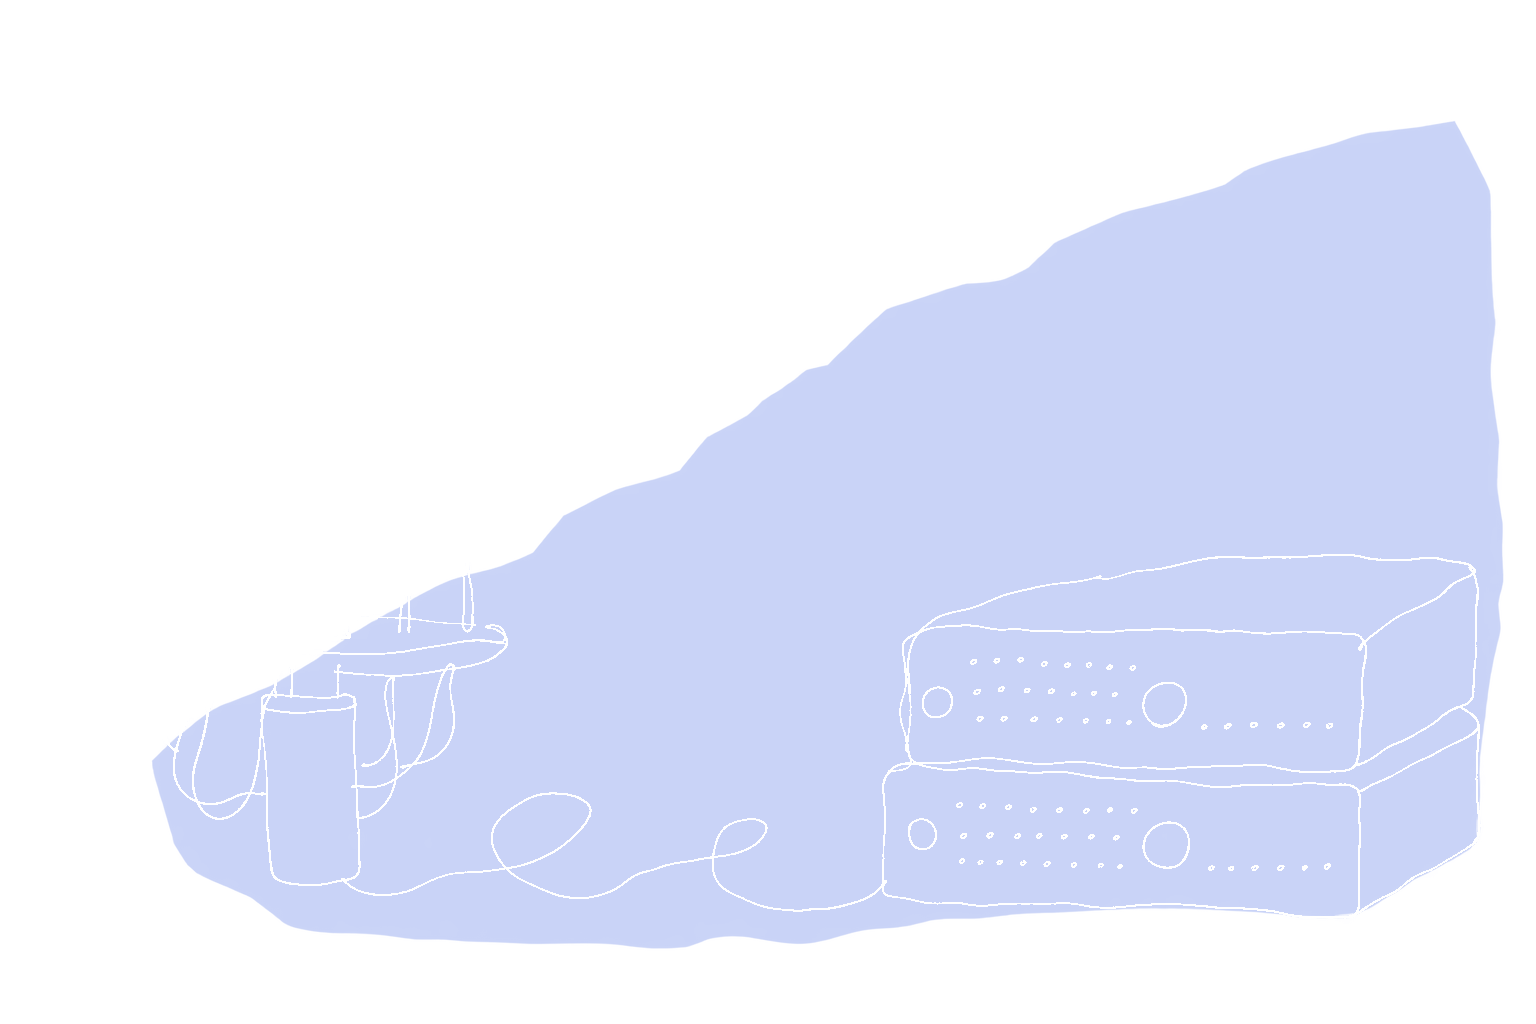
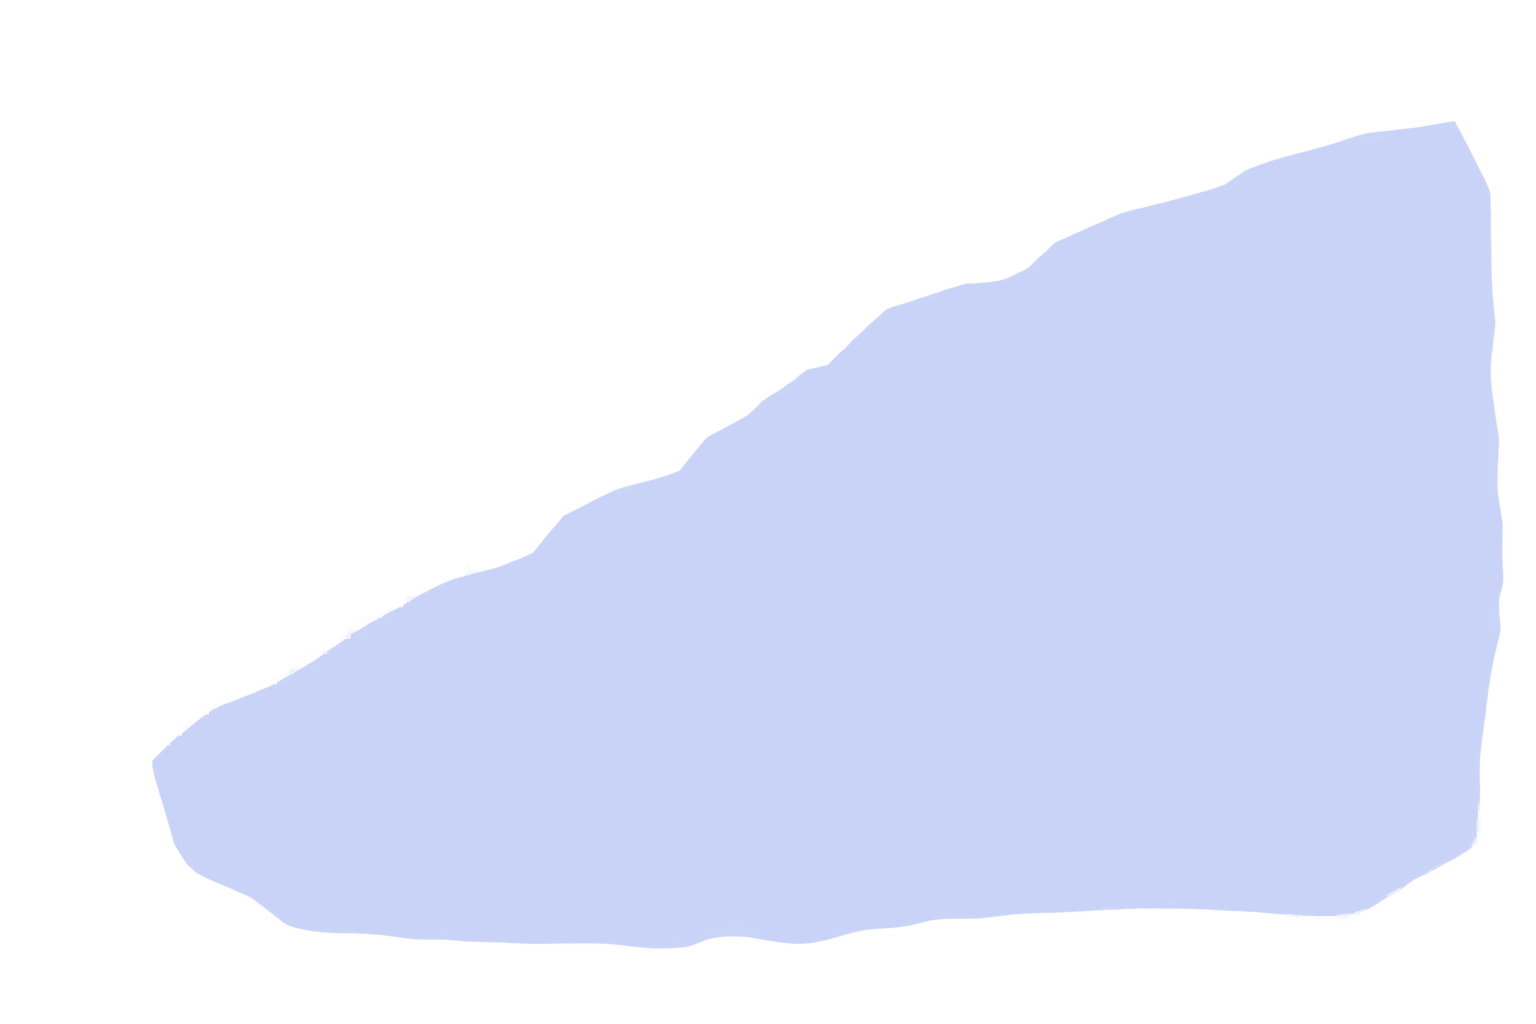
fix(other-half): final read fixes
- section 9: the network stays behind correlated matching except at the lowest noise level (it does not 'never catch' it)
- the lookup table: its runs come from other seeds than the test runs, and unseen or undecided patterns fall back to plain matching (about 0.15% of test runs at 0.5%), as the code and result files record
- 'What we could not show': only the network was trained and tested on one kind of value; the matching check covers both
- How this was made: the reviews as they were
- the hero's colour field: the pen line's knock-outs closed, so no white ghost of the drawing appears as the layers drift (art/SOURCES.md)
- learning: the rotated axis title clear of its tick labels; suppression: a typographic apostrophe; Λ = with non-breaking spaces; status date 23 November; OWN-ENUM dated 23 November

diff --git a/articles/other-half/figures/learning.js b/articles/other-half/figures/learning.js
@@ -210,7 +210,7 @@ function build(el, ctx) {
   if (!tall) {
     // rotated axis title, centred on the plate, its letters 10 units clear
     // of the drawing's left edge so that no frame crops it
-    const rot = g(tg, { transform: `translate(21 ${R.y + R.h / 2}) rotate(-90)`, 'data-audit': 'skip' });
+    const rot = g(tg, { transform: `translate(11 ${R.y + R.h / 2}) rotate(-90)`, 'data-audit': 'skip' });
     text(rot, 0, 0, 'share of runs in which the decoder was wrong', { family: 'sans', size: 12, fill: C.muted, anchor: 'middle' });
   }
   st.fade(fr, 0, 0.12, [1.14, 1.2]).fade(fr5, 1.18, 1.26).fade(tg, 0, 0.12);

diff --git a/articles/other-half/text.md b/articles/other-half/text.md
@@ -3,7 +3,7 @@ title: The other half of a quantum computer
 deck: The same recorded data from one of Google's quantum chips gave two different results, depending on which program read it. We asked what that program has to do, why a neural network can do it better, and what that costs. In our own small runs, it didn't always.
 author: Alexander Rudaev and group
 context: Quantum Computing seminar · TH Deggendorf · winter semester 2026/27
-status: Draft for review, 16 November 2026
+status: Draft for review, 23 November 2026
 accent: other-half
 hero: hero
 summary: The program that reads a quantum chip's errors decides whether the computer works: what it does, why a neural network can do it better, and the cost.
@@ -134,7 +134,7 @@ Google first showed, in 2023, a grid of distance 5 that beat distance 3, but onl
 
 The factor by which the error shrinks per step is written **Λ** (lambda), and it decides how big a useful machine has to be. With Λ near 2, halving the error once more means going from distance 7 to distance 9: from 97 qubits to 161. {{GQA-2024 OWN-ARITH}} That one halving costs 64 more qubits.
 
-Google read the same recorded data with two decoders. Its best matching decoder already links the two kinds of check in a limited way – the idea behind the correlated matching we use in section 9. It learns no rules of its own, though its error weights were tuned on the chip's data. It gave Λ = 2.04, and a neural network gave Λ = 2.14. At distance 7 the matching decoder's logical error rate was 171 per 100,000 rounds and the network's 143, about one in six fewer. {{GQA-2024}} Same chip, same data; only the reader changed.
+Google read the same recorded data with two decoders. Its best matching decoder already links the two kinds of check in a limited way – the idea behind the correlated matching we use in section 9. It learns no rules of its own, though its error weights were tuned on the chip's data. It gave Λ = 2.04, and a neural network gave Λ = 2.14. At distance 7 the matching decoder's logical error rate was 171 per 100,000 rounds and the network's 143, about one in six fewer. {{GQA-2024}} Same chip, same data; only the reader changed.
 
 Other labs have got below the threshold with other hardware, some with decoders that learn {{NA-2025 QTN-2026 QTN-PR-2026 USTC-2025}}, and IBM has shown in simulation a fast one that doesn't {{IBM-RELAY-2025 IBM-FPGA-2025}}. None of these results settles which route is best.
 
@@ -171,7 +171,7 @@ A preprint from December 2025 reports a network that keeps pace: under one milli
 
 ## 9. What we measured ourselves
 
-We can't build a chip and we can't match Google's network. We can measure, in simulation, what a small neural decoder costs to train and run. The short answer: on the smallest grid our network soon beats plain matching; one grid larger it needs about 250 million examples to do so, and never catches correlated matching. We simulate the surface code with Stim, a free simulator written at Google, and use its standard noise model. {{STIM-2021}}
+We can't build a chip and we can't match Google's network. We can measure, in simulation, what a small neural decoder costs to train and run. The short answer: on the smallest grid our network soon beats plain matching; one grid larger it needs about 250 million examples to do so, and even then it stays behind correlated matching except at the lowest noise level. We simulate the surface code with Stim, a free simulator written at Google, and use its standard noise model. {{STIM-2021}}
 
 We wanted three measurements. First, whether a small network beats matching, and how many more examples it needs at distance 5 than at 3. Second, how long each decoder takes per run of three or five rounds on the same machine, next to how often it's wrong. Third, whether a network trained in simulation still works on the recordings Google has made public {{GQA-DATA-2022 GQA-DATA-2024}}, before and after it has seen some of them. We did the first, part of the second, and not the third.
 
@@ -196,7 +196,7 @@ Each training was repeated from different random starting points, or seeds: eigh
 
 :::
 
-At distance 3 the best answer for every pattern can simply be looked up. A table built from 200 million runs per noise level, a hundred times the test set, holds the more frequent answer for each pattern of fired checks. It failed in 1.47% of runs. {{OWN-D3}} Whether its runs overlap the test runs, and how it answers a pattern it never saw, our result files don't record. That table is our estimate of the best possible; since we can't say whether it saw the test runs, it may flatter itself slightly. The network's 1.48% is barely above it.
+At distance 3 the best answer for every pattern can simply be looked up. A table built from 200 million runs per noise level, a hundred times the test set, holds the more frequent answer for each pattern of fired checks. It failed in 1.47% of runs. {{OWN-D3}} Its runs come from different random seeds than the test runs, and for a pattern it never saw, or saw equally often with either answer, it falls back to plain matching: about 0.15% of the test runs at 0.5%. {{OWN-D3}} That table is our estimate of the best possible. The network's 1.48% is barely above it.
 
 :::figure noise wide
 Distance 5, network trained on about 250 million examples: share of runs in which each decoder was wrong, at eight noise levels, with 95% intervals. Five seeds together, 10 million runs per noise level. At 0.1% the network and correlated matching can't be told apart. From 0.2% the network is behind correlated matching, and from 0.8% it is behind plain matching too. Our own runs.
@@ -248,7 +248,7 @@ Our numbers come from small grids and from a network far smaller than Google's. 
 ## What we could not show
 
 - How any of our decoders would do on a real chip. Every run of ours is a simulation with the same noise on every operation, unlike a real chip's errors (section 6), and matching was handed the exact error model. {{OWN-D3 OWN-D5 OWN-D5-250M OWN-TIME}}
-- How the decoders do on the other of the two kinds of value a logical qubit can hold. We stored only one.
+- How our network does on the other of the two kinds of value a logical qubit can hold. We trained and tested it on one; only the check of the two matching decoders in section 9 covers both.
 - How many examples our network needs to reach correlated matching at distance 5, and whether it learns distance 7 at all.
 - Why correlated matching gets those single errors and pairs wrong, and whether another version of the library does too.
 
@@ -276,7 +276,7 @@ Every figure from outside our group comes from a source one of us opened: publis
 - Question, choices, what to keep and drop, and conclusions: the group.
 - Code and prose: written and revised with AI assistants under our direction; the code run by us on Kaggle.
 - Second scripts: by an AI agent that had not seen ours; a check on our code, not a replication by other people.
-- Reviews: four AI readers in different roles (student, outsider, examiner, voice) on an earlier draft, an AI fact checker on a later one; we worked in their lists. No person outside the group has read it yet.
+- Reviews: AI readers in different roles (student, outsider, examiner, voice, editor, motion designer, sceptic of machine-made looks, a quantum specialist who recomputed the numbers) over many rounds, on the text and on every figure; we worked in their lists. No person outside the group has read it yet.
 - Opening drawing: an image model, from our own line reference and photographs of real hardware.
 
 We are responsible for the question and every claim.

diff --git a/articles/other-half/art/SOURCES.md b/articles/other-half/art/SOURCES.md
@@ -1,11 +1,11 @@
 # The opening drawing
 
-`hero-line.png` and `hero-field.png` are the two layers of one drawing: the pen line, and the one colour field behind it. Both are 1536 × 1024 px with a transparent background. They are unchanged copies of `scenes/other-half/layers/whole-line.png` and `whole-field.png` in the Paper Studio (`PROJECTS/21-Paper-Studio`), copied on 16 November 2026.
+`hero-line.png` and `hero-field.png` are the two layers of one drawing: the pen line, and the one colour field behind it. Both are 1536 × 1024 px with a transparent background. They are unchanged copies of `scenes/other-half/layers/whole-line.png` and `whole-field.png` in the Paper Studio (`PROJECTS/21-Paper-Studio`), copied on 16 November 2026. On 23 November 2026 the field's knock-outs of the pen line were closed (a morphological closing of its alpha, radius 6 px, `PROJECTS/21-Paper-Studio/forge/close-field.cjs`), so the field no longer shows a white ghost of the line where the two layers drift apart on scroll.
 
 | File | SHA-256 |
 | --- | --- |
[3 lines of base64/hex data omitted]
 
 ## How it was made
 
